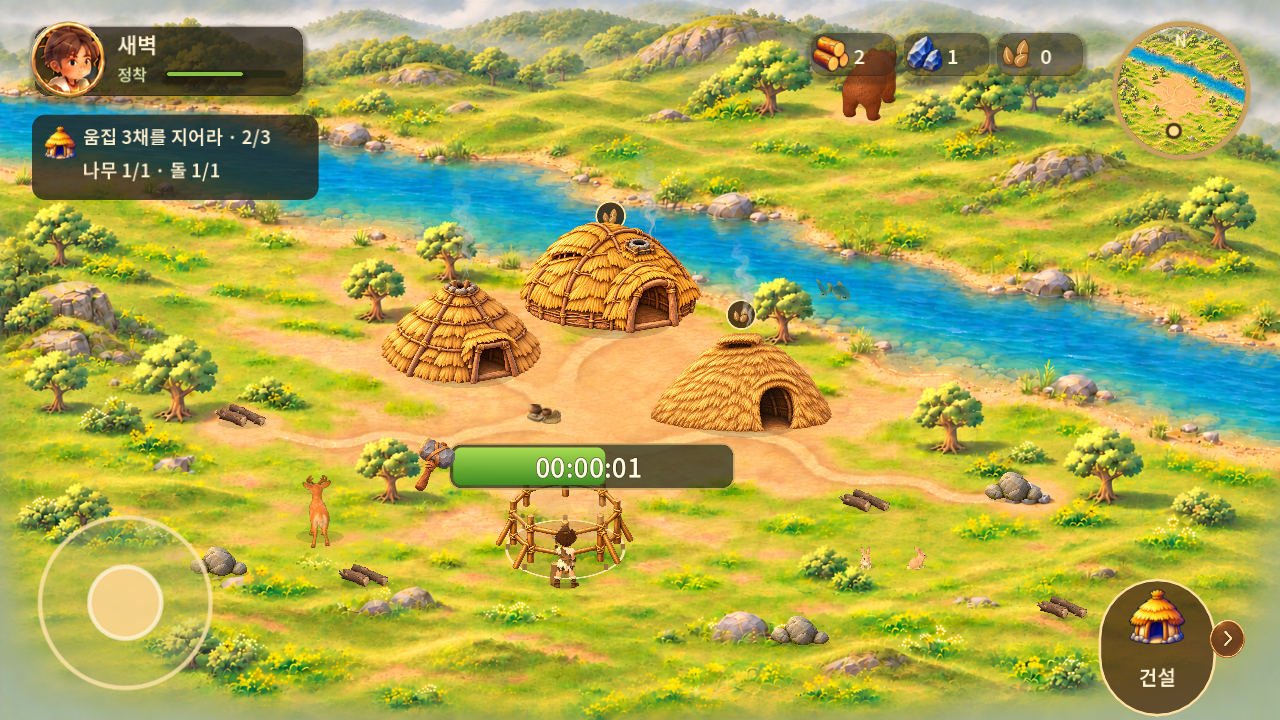
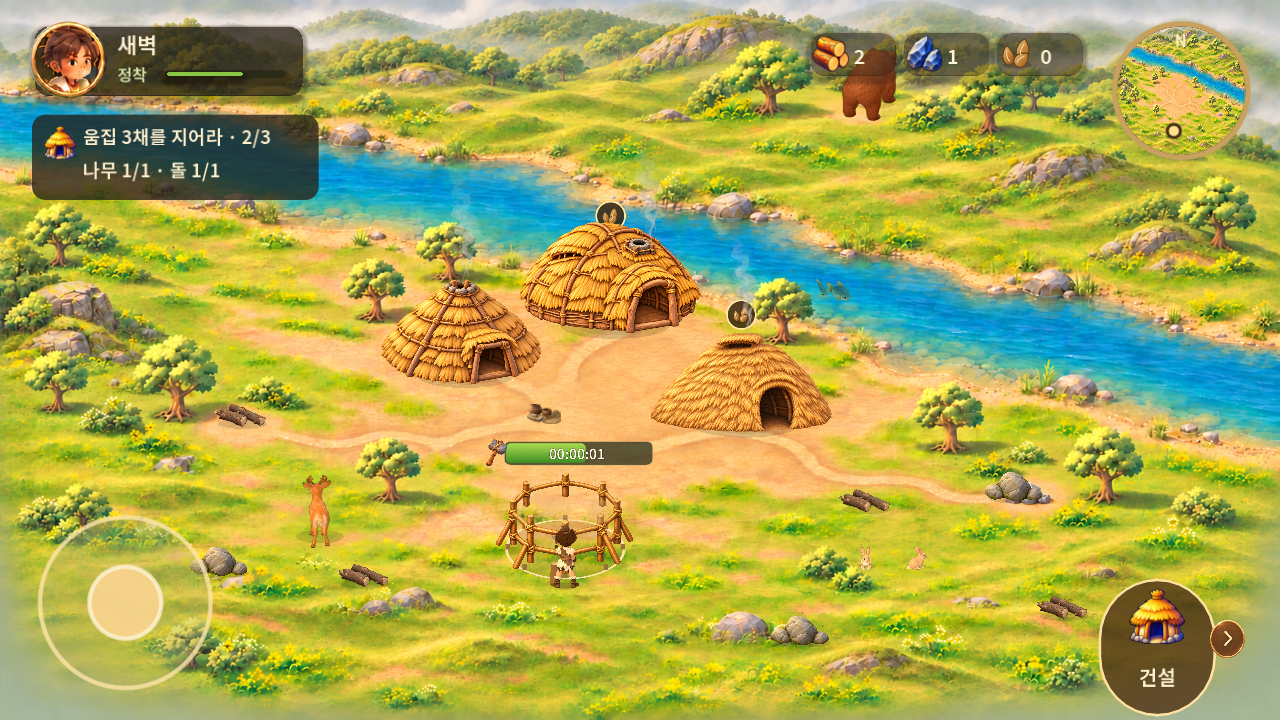
Scale construction progress with the building at overview zoom

Changed region(s): [[0.3125, 0.6111, 0.5938, 0.7028]]

diff --git a/docs/shared-reports/2026-11-03-s40000-faithful/report.md b/docs/shared-reports/2026-11-03-s40000-faithful/report.md
@@ -61,3 +61,7 @@
 ## 원격 검사 후속
 
 CI55는 UI101개 통과 뒤 `environment_review.gd`의 소프트웨어 렌더 이동 검사에서 150초 제한(exit124)에 도달했다. assertion 실패나 스크립트 오류는 보고되지 않았다. 동일한 장면/관절/검사/60fps 시뮬레이션은 유지하며 장거리 가림·신규 동물 검사의 벽시계 제한만 600초로 늘려 재실행한다. APK의 실행 코드는 변경하지 않는다.
+
+## 최소 배율 건설바 보완 · v0.1.22
+
+최소 배율에서 진행바가 발판에 비해 너무 컸다. 승인된 망치/진행바의 내부 비율은 유지하고 건물과 함께 확대·축소하되 글자가 읽히는 최소 크기를 둔다. world_life26·play_flow21 재검증 통과. 이 후속 실행 변경을 구분하기 위해 최종 버전0.1.22/code23으로 올린다.
